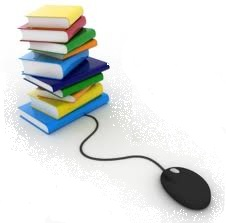
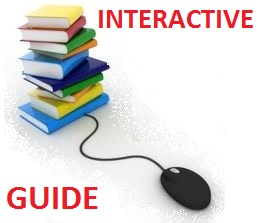
starthere

diff --git a/src/biz/xlean/client/about/AboutXLean.java b/src/biz/xlean/client/about/AboutXLean.java
@@ -1,6 +1,5 @@
 package biz.xlean.client.about;
 
-import biz.xlean.client.Home;
 import biz.xlean.client.utilities.UseTracking;
 
 import com.google.gwt.event.dom.client.ClickEvent;
@@ -8,8 +7,6 @@ import com.google.gwt.event.dom.client.ClickHandler;
 import com.google.gwt.user.client.ui.AbsolutePanel;
 import com.google.gwt.user.client.ui.HTML;
 import com.google.gwt.user.client.ui.Image;
-import com.startupstages.client.InitializeBlog;
-import com.startupstages.client.StartupStagesGlobalVariables;
 
 public class AboutXLean extends AbsolutePanel {
 
@@ -25,38 +22,39 @@ public class AboutXLean extends AbsolutePanel {
 		HTML image_1 = new HTML(
 				"<a href='http://xleanbiz.wordpress.com/2012/03/23/what-stage-are-you/' target='_blank'>"
 						+ "<img src='images/InteractiveGuide.jpg' width=146 height=139 border=0></a>");
-		this.add(image_1, 44, 265);
+		this.add(image_1, 44, 210);
 
 		HTML htmlLearnEverythingAbout = new HTML(
-				"<a href='http://xleanbiz.wordpress.com/2012/03/23/what-stage-are-you/' target='_blank'>"
-						+ " &nbsp;<b><font color=red>INTERACTIVE GUIDE</font></b>"
-						+ "<br>Follow all the information  <br> about Customer Development "
-						+ "<br>and Lean Startups.</a>", true);
-		this.add(htmlLearnEverythingAbout, 54, 415);
+				"Follow all the information<br>about Customer Development "
+						+ "<br>and Lean Startups.<br>" +
+						" &nbsp;&nbsp;&nbsp;&nbsp;&nbsp;&nbsp;&nbsp;&nbsp;&nbsp; " +
+						"<a href='http://xleanbiz.wordpress.com/2012/03/23/what-stage-are-you/'" +
+						" target='_blank'>KNOW MORE</a>", true);
+		this.add(htmlLearnEverythingAbout, 54, 360);
 
 		Image image_2 = new Image("images/feedbackOrganizer.jpg");
 		image_2.addClickHandler(getFeedbackClickHandler());
-		this.add(image_2, 306, 265);
+		this.add(image_2, 306, 210);
 
 		HTML htmlFeedbackIsKey = new HTML(
 				"Feedback is key for <br>Customer Development.<br> "
-						+ "We will tell you all the thuth"
-						+ " <br>about your product <br> and your company.",
+						+ "We will tell you the thuth"
+						+ "<br>about your product.",
 				true);
 		htmlFeedbackIsKey.addClickHandler(getFeedbackClickHandler());
-		this.add(htmlFeedbackIsKey, 327, 415);
+		this.add(htmlFeedbackIsKey, 327, 360);
 
 		Image image_3 = new Image("images/metrics.jpg");
 		image_3.addClickHandler(getMetricsClickHandler());
-		this.add(image_3, 555, 228);
+		this.add(image_3, 555, 173);
 
 		HTML htmlStartupMetricsAnd = new HTML(
 				"Metrics Matter!<br> We compare you to<br> others. You look better <br>than you think!",
 				true);
 		htmlStartupMetricsAnd.addClickHandler(getMetricsClickHandler());
-		this.add(htmlStartupMetricsAnd, 567, 415);
+		this.add(htmlStartupMetricsAnd, 567, 360);
 
-		this.add(new ButtonTryItNow(), 293, 549);
+		this.add(new ButtonTryItNow(), 300, 460);
 	}
 
 	private ClickHandler getFeedbackClickHandler() {

diff --git a/src/biz/xlean/client/about/ButtonTryItNow.java b/src/biz/xlean/client/about/ButtonTryItNow.java
@@ -11,7 +11,7 @@ public class ButtonTryItNow extends HTML {
 
 	public ButtonTryItNow() {
 
-		this.setHTML("<a href=#><img src='images/tryItNow.jpg' border=0></a>");
+		this.setHTML("<a href=#><img src='images/StartHere.jpg' width='150px' border=0></a>");
 		this.addClickHandler(new ClickHandler() {
 			public void onClick(ClickEvent event) {
 
